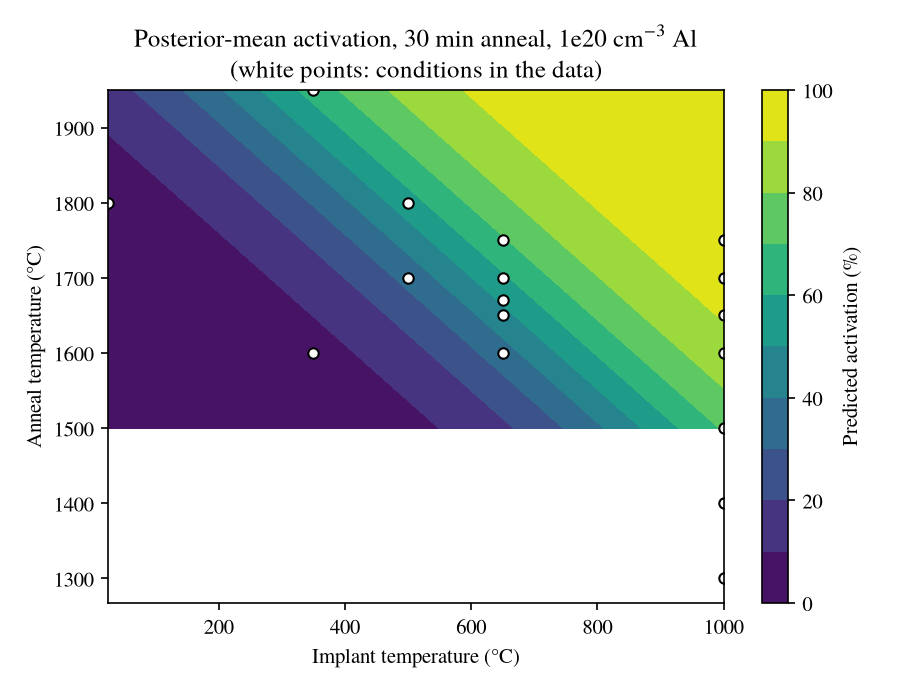
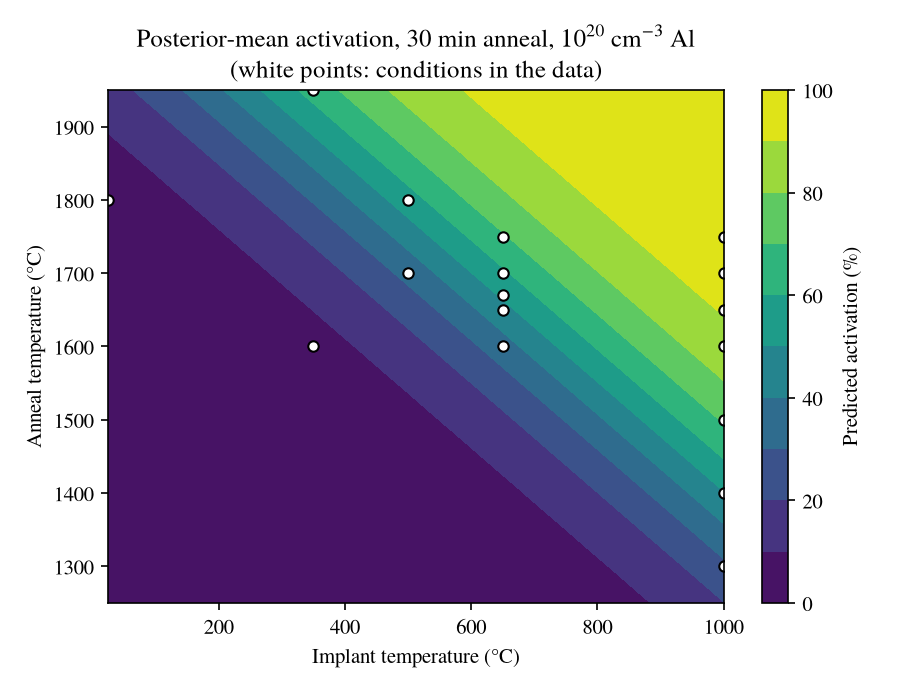
Extend the plotted activation-energy profile to 50 eV and the design-map grid to the sampled anneal temperatures; label the activation energy as effective

diff --git a/05_hierarchical_model.py b/05_hierarchical_model.py
@@ -78,7 +78,7 @@ json.dump(OUT, open(DATA / "hierarchical_results.json", "w"), indent=2)
 mu, sd = draws["mu"], draws["sd"]
 beta = draws["beta"].mean(0)
 grid_i = np.linspace(25, 1000, 40)
-grid_a = np.linspace(1500, 1950, 40)
+grid_a = np.linspace(1250, 1950, 50)
 Z = np.zeros((len(grid_a), len(grid_i)))
 for ia, a in enumerate(grid_a):
     for ii, i in enumerate(grid_i):
@@ -91,7 +91,7 @@ ax.scatter(pts.implant_temp_C, pts.anneal_temp_C, c="w", edgecolor="k", s=25)
 plt.colorbar(cs, label="Predicted activation (%)")
 ax.set_xlabel("Implant temperature (°C)")
 ax.set_ylabel("Anneal temperature (°C)")
-ax.set_title("Posterior-mean activation, 30 min anneal, 1e20 cm$^{-3}$ Al\n(white points: conditions in the data)")
+ax.set_title("Posterior-mean activation, 30 min anneal, $10^{20}$ cm$^{-3}$ Al\n(white points: conditions in the data)")
 plt.tight_layout()
 plt.savefig(FIG / "design_map.png", dpi=150)
 plt.savefig(FIG / "design_map.pdf")

diff --git a/06_kinetic_validation.py b/06_kinetic_validation.py
@@ -172,9 +172,10 @@ print("Ea profile", prof, base)
 json.dump(OUT, open(DATA / "kinetic_validation_results.json", "w"), indent=2)
 
 fig, ax = plt.subplots(figsize=(5.5, 3.8))
-ax.plot(list(prof), list(prof.values()), "o-", label="Arrhenius-equivalent time")
+ax.plot(list(prof), list(prof.values()), "o-", color="tab:blue", label="Arrhenius-equivalent time")
+ax.plot(list(ext), list(ext.values()), "o", mfc="white", color="tab:blue", label="Extended grid (12-50 eV)")
 ax.axhline(base["linear"], color="tab:red", linestyle="--", label="linear (anneal T, log time)")
-ax.set_xlabel("Assumed activation energy $E_a$ (eV)")
+ax.set_xlabel("Assumed effective activation energy $E_a$ (eV)")
 ax.set_ylabel("Leave-one-source-out MAE (pp)")
 ax.legend(fontsize=8)
 plt.tight_layout()
